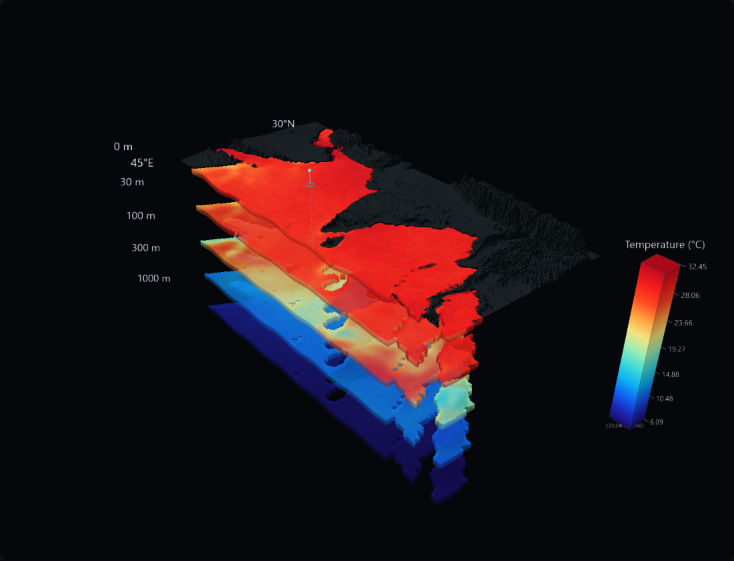
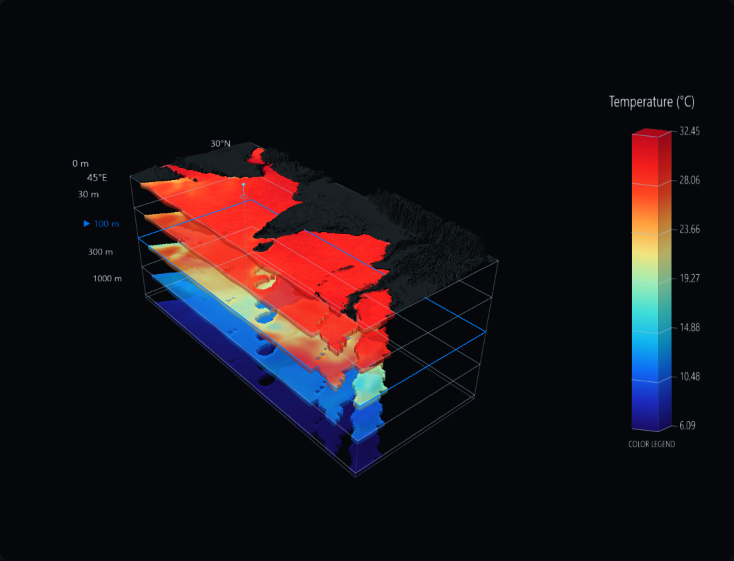
astra updates

diff --git a/web/src/components/DepthRenderer.tsx b/web/src/components/DepthRenderer.tsx
@@ -26,6 +26,8 @@ import { depthColor, depthGradient } from "../field/depthColors";
 import { waterShape } from "../field/waterShape";
 import { createTemperaturePrism } from "./TemperaturePrism";
 import { createLocationProbe } from "./LocationProbe";
+import { createStackFrame } from "./StackFrame";
+
 
 export interface DepthRendererProps {
   field: FieldView;
@@ -57,6 +59,8 @@ export default function DepthRenderer(props: DepthRendererProps) {
     camera: THREE.PerspectiveCamera;
     renderer: THREE.WebGLRenderer;
     scene: THREE.Scene;
+
+    legendGroup: THREE.Group;
   } | null>(null);
   const latest = useRef(props);
   latest.current = props;
@@ -95,7 +99,12 @@ export default function DepthRenderer(props: DepthRendererProps) {
     );
     renderer.domElement.dataset.testid = "depth-canvas";
     const scene = new THREE.Scene();
+
+    const legendGroup = new THREE.Group();
+    scene.add(legendGroup);
+
     scene.background = new THREE.Color().setRGB(5 / 255, 7 / 255, 11 / 255);
+    renderer.setClearColor(scene.background);
     // Soft key + fill so the land relief and slice stack read as solid surfaces
     // instead of flat colour. Lighting is presentation only: the ocean slices
     // stay MeshBasic so their colours remain the exact colormap values.
@@ -124,7 +133,7 @@ export default function DepthRenderer(props: DepthRendererProps) {
     controlRef.current = controls;
     const group = new THREE.Group();
     scene.add(group);
-    sceneData.current = { group, camera, renderer, scene };
+    sceneData.current = { group, camera, renderer, scene, legendGroup };
     const resize = new ResizeObserver(() => {
       const w = element.clientWidth,
         h = element.clientHeight;
@@ -169,10 +178,12 @@ export default function DepthRenderer(props: DepthRendererProps) {
       )
         return;
       const rect = renderer.domElement.getBoundingClientRect();
+      const mainWidth=rect.width;
+
       const ray = new THREE.Raycaster();
       ray.setFromCamera(
         new THREE.Vector2(
-          ((e.clientX - rect.left) / rect.width) * 2 - 1,
+          ((e.clientX - rect.left) / mainWidth) * 2 - 1,
           (-(e.clientY - rect.top) / rect.height) * 2 + 1,
         ),
         camera,
@@ -203,6 +214,7 @@ export default function DepthRenderer(props: DepthRendererProps) {
       controls.dispose();
       if (probeRef.current) { disposeGroup(probeRef.current); probeRef.current = null; }
       disposeGroup(group);
+      disposeGroup(legendGroup);
       renderer.dispose();
       renderer.domElement.removeEventListener("webglcontextlost", lost);
       renderer.domElement.removeEventListener("pointerdown", down);
@@ -329,19 +341,18 @@ export default function DepthRenderer(props: DepthRendererProps) {
       group.add(landMesh);
     }
 
-    group.add(createTemperaturePrism(range,layer,palette,ys[0],ys[ys.length-1]));
+    group.add(createStackFrame(levels,ys,depth,slab));
+    if(host.current) host.current.dataset.highlightedDepth=String(f.depths[depth]);
 
-    // NO container prism. An enclosing box around the whole stack was tried and
-    // removed: it reads as an aquarium, adds base volume the data does not
-    // have, and buries the vertical separation that is the whole point of the
-    // view. The water footprint itself defines each sheet.
+    // Edge-only scientific frame; gaps remain empty and no panels are added.
     //
     // Every sheet is labelled with its OWN true depth in metres. That matters
     // most when the stack is exploded, because a layer's height is then a
     // legibility device rather than a measurement — the label, not the
     // position, is what states the depth.
     levels.forEach((k, i) => {
-      const label = textSprite(`${f.depths[k]} m`);
+      const label = textSprite(`${k===depth ? "▶ " : ""}${f.depths[k]} m`);
+      if(k===depth) (label.material as THREE.SpriteMaterial).color.set(0x16bbff);
       label.position.set(-36, ys[i], 13);
       group.add(label);
     });
@@ -373,6 +384,16 @@ export default function DepthRenderer(props: DepthRendererProps) {
     terrainExaggeration,
     // Selection updates the separate lightweight probe below.
   ]);
+  // World-space model beside the stack: only the active scale can rebuild or
+  // recolor it. It shares the ocean camera for orbit, pan and zoom.
+  useEffect(() => {
+    if(!sceneData.current) return;
+    const {legendGroup}=sceneData.current;
+    disposeGroup(legendGroup);
+    const prism=createTemperaturePrism(range,layer,palette,0,-24);
+
+    legendGroup.add(prism);
+  },[ready,range.min,range.max,range.count,layer,palette]);
   useEffect(() => {
     if (!sceneData.current) return;
     const {scene,group}=sceneData.current;

diff --git a/web/src/components/StackFrame.ts b/web/src/components/StackFrame.ts
@@ -1,0 +1,40 @@
+import * as THREE from "three";
+import { DOMAIN, position } from "../field/geometry";
+import { OCEAN_VISUAL_CONFIG as V } from "../field/visualConfig";
+
+/** Edges only: no panels, field geometry, or picking targets. */
+export function createStackFrame(levels:number[], ys:number[], selected:number, thickness:number) {
+  const group=new THREE.Group(); group.name="stack-frame";
+  const [x0,,z0]=position(DOMAIN.west,DOMAIN.south,0,1);
+  const [x1,,z1]=position(DOMAIN.east,DOMAIN.north,0,1);
+  const corners=[[x0,z0],[x1,z0],[x1,z1],[x0,z1]];
+  const perimeter=(y:number)=>corners.map(([x,z])=>new THREE.Vector3(x,y,z));
+  levels.forEach((level,i)=>{
+    const active=level===selected;
+    const frame=new THREE.Group(); frame.userData={level,selected:active};
+    const points=perimeter(ys[i]); points.push(points[0].clone());
+    frame.add(new THREE.Line(new THREE.BufferGeometry().setFromPoints(points),
+      new THREE.LineBasicMaterial({color:active?V.selectedOutlineColor:V.normalOutlineColor,
+        transparent:true,opacity:active?V.selectedOutlineIntensity:V.outlineOpacity,depthWrite:false,toneMapped:false})));
+    if(active) {
+      const material=new THREE.MeshBasicMaterial({color:V.selectedOutlineColor,transparent:true,
+        opacity:V.selectedOutlineIntensity*.75,depthWrite:false,toneMapped:false});
+      for(let j=0;j<4;j++) {
+        const a=points[j],b=points[j+1],delta=b.clone().sub(a);
+        const edge=new THREE.Mesh(new THREE.CylinderGeometry(V.selectedOutlineRadius,V.selectedOutlineRadius,delta.length(),6),material);
+        edge.position.copy(a).add(b).multiplyScalar(.5);
+        edge.quaternion.setFromUnitVectors(new THREE.Vector3(0,1,0),delta.normalize()); frame.add(edge);
+      }
+    }
+    frame.renderOrder=90; frame.traverse(o=>o.renderOrder=90); group.add(frame);
+  });
+  if(ys.length) {
+    const bottom=ys[ys.length-1]-thickness;
+    const points=perimeter(bottom); points.push(points[0].clone());
+    const lines:THREE.Vector3[]=[];
+    for(let j=0;j<4;j++) lines.push(points[j],points[j+1],new THREE.Vector3(corners[j][0],ys[0],corners[j][1]),points[j]);
+    group.add(new THREE.LineSegments(new THREE.BufferGeometry().setFromPoints(lines),
+      new THREE.LineBasicMaterial({color:V.normalOutlineColor,transparent:true,opacity:V.cornerOpacity,depthWrite:false,toneMapped:false})));
+  }
+  return group;
+}

diff --git a/web/src/components/TemperaturePrism.tsx b/web/src/components/TemperaturePrism.tsx
@@ -2,6 +2,7 @@ import * as THREE from "three";
 import type { Layer, Palette } from "../field/contract";
 import type { Range } from "../field/colors";
 import { depthColor } from "../field/depthColors";
+import { OCEAN_VISUAL_CONFIG } from "../field/visualConfig";
 
 export function prismTicks(range: Range, layer: Layer) {
   if (!range.count || !Number.isFinite(range.min) || !Number.isFinite(range.max)) return [];
@@ -18,7 +19,7 @@ export function createTemperaturePrism(range: Range, layer: Layer, palette: Pale
   const ticks = prismTicks(range,layer);
   if (!ticks.length) return group;
   const height = Math.max(10, Math.abs(surfaceY-bottomY));
-  group.position.set(34, surfaceY-height/2, -17);
+  group.position.set(OCEAN_VISUAL_CONFIG.legendPosition[0], surfaceY-height/2, OCEAN_VISUAL_CONFIG.legendPosition[2]);
   group.userData = { legend:true, ticks, title:layer === "anomaly" ? "Temperature Anomaly (°C)" : "Temperature (°C)" };
   const pixels = new Uint8Array(1024*4);
   for (let i=0;i<1024;i++) pixels.set([
@@ -43,6 +44,12 @@ export function createTemperaturePrism(range: Range, layer: Layer, palette: Pale
   caption.position.set(0,-height/2-1.4,0); group.add(caption);
   for (const value of ticks) {
     const t = range.min===range.max ? .5 : (value-range.min)/(range.max-range.min);
+    const y=t*height-height/2;
+    const separator=new THREE.LineLoop(new THREE.BufferGeometry().setFromPoints([
+      new THREE.Vector3(-1.61,y,-1.61),new THREE.Vector3(1.61,y,-1.61),
+      new THREE.Vector3(1.61,y,1.61),new THREE.Vector3(-1.61,y,1.61)]),
+      new THREE.LineBasicMaterial({color:0xd5e6f2,transparent:true,opacity:OCEAN_VISUAL_CONFIG.legendSeparatorOpacity,toneMapped:false}));
+    separator.name="legend-separator"; separator.userData.value=value; group.add(separator);
     const text = label(value===0 ? "0" : value.toFixed(2),8);
     text.position.set(2.5,t*height-height/2,-1.6); group.add(text);
     const line = new THREE.BufferGeometry().setFromPoints([

diff --git a/web/src/field/surfaceMaterials.ts b/web/src/field/surfaceMaterials.ts
@@ -1,5 +1,6 @@
 /** Display-only surface finishes. No displacement, model values or masks. */
 import * as THREE from "three";
+import { OCEAN_VISUAL_CONFIG } from "./visualConfig";
 
 /** Interpolate display RGB only inside fully supported four-cell patches.
  * Geometry, cell ordering, masks and scientific scalar arrays remain intact.
@@ -38,11 +39,13 @@ export function oceanMaterial(opacity: number, surface: boolean, cells: number[]
   material.addEventListener("dispose", () => edgeMask.dispose());
   material.onBeforeCompile = shader => {
     shader.uniforms.waterSupport = { value: edgeMask };
+    shader.uniforms.oceanEmission = { value: OCEAN_VISUAL_CONFIG.emissiveIntensity };
     shader.vertexShader = "varying vec3 vSurfacePosition;\n" + shader.vertexShader;
     shader.vertexShader = shader.vertexShader.replace("#include <begin_vertex>",
       "#include <begin_vertex>\nvSurfacePosition = (modelMatrix * vec4(position, 1.0)).xyz;");
     shader.fragmentShader = `varying vec3 vSurfacePosition;
       uniform sampler2D waterSupport;
+      uniform float oceanEmission;
       float waterHash(vec2 p) { return fract(sin(dot(p, vec2(127.1,311.7))) * 43758.5453); }
       float waterNoise(vec2 p) {
         vec2 i = floor(p), f = fract(p); f = f*f*(3.0-2.0*f);
@@ -69,6 +72,7 @@ export function oceanMaterial(opacity: number, surface: boolean, cells: number[]
       diffuseColor.rgb *= 1.0 - strength * (0.09 - 0.12 * detail);
       float sheen = min(0.13, grazing * 0.08 + glint * 0.12) * strength;
       diffuseColor.rgb = mix(diffuseColor.rgb, vec3(0.85, 0.94, 1.0), sheen);
+      diffuseColor.rgb *= 1.0 + oceanEmission;
       // Feather only within existing triangles; never draw into masked cells.
       vec2 supportUV = vec2((p.x / 0.95371695075 + 30.125) / 60.25,
                             (12.625 - p.y) / 25.25);

diff --git a/web/e2e/volume.spec.ts b/web/e2e/volume.spec.ts
@@ -1,0 +1,25 @@
+import { test, expect } from "@playwright/test";
+import { oceanViewportWidth } from "../src/field/visualConfig";
+test("existing depth selection highlights the stack while foreground scale stays pixel-identical",async({page})=>{
+  let requests=0; page.on("request",r=>{if(r.url().includes("/api/replay/view"))requests++;});
+  await page.goto("/#depth");
+  await expect(page.getByTestId("terrain-context")).toBeVisible();
+  const view=page.getByTestId("depth-renderer"); await view.scrollIntoViewIfNeeded();
+  await expect(page.getByLabel("Depth",{exact:true})).toHaveCount(1);
+  const box=(await view.boundingBox())!, width=oceanViewportWidth(box.width);
+  const legend=()=>page.screenshot({clip:{x:box.x+width,y:box.y,width:box.width-width,height:box.height}});
+  await page.waitForTimeout(500); const before=await legend();
+  for(const [index,metres] of [[0,0],[4,30],[7,100],[11,300],[14,1000]]) {
+    await page.getByLabel("Depth",{exact:true}).selectOption(String(index));
+    await expect(view).toHaveAttribute("data-highlighted-depth",String(metres));
+    await page.waitForTimeout(200);
+    expect((await legend()).equals(before)).toBe(true);
+  }
+  await page.mouse.move(box.x+width*.45,box.y+box.height*.5);
+  await page.mouse.down(); await page.mouse.move(box.x+width*.53,box.y+box.height*.48,{steps:12}); await page.mouse.up();
+  await page.mouse.wheel(0,-80); await page.waitForTimeout(500);
+  expect((await legend()).equals(before)).toBe(true);
+  await page.getByLabel("Layer separation",{exact:true}).fill("0.7");
+  await page.waitForTimeout(300); expect((await legend()).equals(before)).toBe(true);
+  expect(requests).toBe(1);
+});

diff --git a/web/src/test/stackFrame.test.ts b/web/src/test/stackFrame.test.ts
@@ -1,0 +1,23 @@
+import { it, expect } from "vitest";
+import * as THREE from "three";
+import { createStackFrame } from "../components/StackFrame";
+import { visibleLevels, layerLayout, LAYER_GAP } from "../field/geometry";
+import { DEPTHS } from "../field/contract";
+import { OCEAN_VISUAL_CONFIG as V } from "../field/visualConfig";
+it("highlights only the exact selected depth across all 15 levels using edges only",()=>{
+  for(let selected=0;selected<DEPTHS.length;selected++) {
+    const levels=visibleLevels([0,14],5,selected);
+    const ys=layerLayout(DEPTHS,levels,700,1,LAYER_GAP);
+    const before=[...ys];
+    const frame=createStackFrame(levels,ys,selected,.8);
+    const active=frame.children.filter(o=>o.userData.selected);
+    expect(active).toHaveLength(1); expect(active[0].userData.level).toBe(selected);
+    for(const child of frame.children.filter(o=>o instanceof THREE.Group)) {
+      const line=child.children[0] as THREE.Line<THREE.BufferGeometry,THREE.LineBasicMaterial>;
+      expect(line.material.color.getHex()).toBe(child.userData.selected?V.selectedOutlineColor:V.normalOutlineColor);
+      expect(line.material.opacity).toBe(child.userData.selected?V.selectedOutlineIntensity:V.outlineOpacity);
+    }
+    expect(ys).toEqual(before);
+    expect(frame.children.at(-1)).toBeInstanceOf(THREE.LineSegments);
+  }
+});

diff --git a/web/e2e/historical.spec.ts b/web/e2e/historical.spec.ts
@@ -170,9 +170,11 @@ test("3D orbit pan zoom clipping depth selection and frame rate", async ({
   // are still exercised, below, after this measurement.
   //
   // Same constants the renderer uses — imported, never re-typed here.
+  const sceneWidth=b.width;
+  const aspect=sceneWidth/b.height;
   const camera = new PerspectiveCamera(
-    CAMERA.fov,
-    b.width / b.height,
+    2*Math.atan(Math.tan(CAMERA.fov*Math.PI/360)*Math.max(1,1.2/aspect))*180/Math.PI,
+    aspect,
     CAMERA.near,
     CAMERA.far,
   );
@@ -207,7 +209,7 @@ test("3D orbit pan zoom clipping depth selection and frame rate", async ({
   ).project(camera);
   await canvas.click({
     position: {
-      x: ((projected.x + 1) / 2) * b.width,
+      x: ((projected.x + 1) / 2) * sceneWidth,
       y: ((1 - projected.y) / 2) * b.height,
     },
   });

diff --git a/web/src/test/temperaturePrism.test.ts b/web/src/test/temperaturePrism.test.ts
@@ -17,6 +17,9 @@ it("creates a world-space prism outside the ocean with the active palette", () =
     expect(Array.from(data.slice(0,3))).toEqual(depthColor(-4,range,"anomaly","thermal"));
     expect(Array.from(data.slice(-4,-1))).toEqual(depthColor(4,range,"anomaly","thermal"));
     expect(model.userData.ticks[3]).toBe(0);
+    const separators=model.children.filter(o=>o.name==="legend-separator");
+    expect(separators.map(o=>o.userData.value)).toEqual(model.userData.ticks);
+    expect(separators).toHaveLength(7);
     const camera=new THREE.PerspectiveCamera(38,1,0.1,500);
     camera.position.set(76,49,62); camera.lookAt(0,-12,0); camera.updateMatrixWorld();
     const before=model.position.clone().project(camera);

diff --git a/web/src/field/visualConfig.ts b/web/src/field/visualConfig.ts
@@ -1,0 +1,13 @@
+/** Presentation only; never changes field values, masks, or scale normalization. */
+export const OCEAN_VISUAL_CONFIG = {
+  emissiveIntensity: 0.15,
+  outlineOpacity: 0.38,
+  normalOutlineColor: 0xd5e6f2,
+  selectedOutlineColor: 0x16bbff,
+  selectedOutlineIntensity: 1,
+  selectedOutlineRadius: 0.035,
+  cornerOpacity: 0.25,
+  legendSeparatorOpacity: 0.45,
+  legendPosition: [34, -12, 11] as const,
+} as const;
+

diff --git a/docs/PHASE7B_VISUAL_TUNING.md b/docs/PHASE7B_VISUAL_TUNING.md
@@ -1,0 +1,23 @@
+# Phase 7B 3D visual tuning
+
+Edit `web/src/field/visualConfig.ts`, object `OCEAN_VISUAL_CONFIG`, then run `npm run build` from `web` and refresh the application.
+
+| Setting | Current | Suggested range | Effect |
+| --- | --- | --- | --- |
+| emissiveIntensity | 0.08 | 0–0.15 | Higher lifts ocean RGB brightness after the existing surface finish; lower looks more matte. Values, palette and normalization are unchanged. Stronger settings can saturate bright reds. |
+| outlineOpacity | 0.38 | 0.15–0.6 | Visibility of non-selected white layer perimeters. |
+| selectedOutlineIntensity | 1 | 0.55–1 | Cyan selected frame emphasis (opacity); 1 is maximum. |
+| selectedOutlineRadius | 0.035 | 0.015–0.06 | Thin selected edge radius in scene units; independent of scientific geometry. |
+| cornerOpacity | 0.25 | 0.1–0.45 | Visibility of four vertical corners and lower closing perimeter. |
+| legendSeparatorOpacity | 0.45 | 0.15–0.65 | Tick-aligned separator visibility on all prism faces. |
+| normalOutlineColor | 0xd5e6f2 | CSS-style hex RGB | Neutral cool-white frame color. |
+| selectedOutlineColor | 0x16bbff | CSS-style hex RGB | Selected cyan frame color. |
+| legendViewportFraction | 0.20 | 0.18–0.24 | Right foreground space reserved for the 3D legend; picking and camera sizing use the same helper. |
+
+There is no bloom postprocessing pass. `bloomStrength`, `bloomRadius`, and `bloomThreshold` are deliberately not inactive knobs: they are not implemented. In a future bloom implementation, strength controls spread intensity, radius controls width/softness, and a lower threshold admits more scene brightness. This refinement uses the existing self-lit ocean shader and small edge geometry to avoid a new render-target/postprocessing cost.
+
+The ocean uses MeshBasicMaterial already, so emissiveIntensity is an explicit shader brightness multiplier, not an ineffective MeshStandardMaterial emissive property. No new colormap is generated. No field values are read or mutated by frame creation.
+
+The foreground prism is real box geometry rendered in a dedicated scene using the same WebGL renderer/canvas. It has a fixed camera and fixed dimensions; it is not anchored to a geographic coordinate. Its ticks, gradient and separators derive from the active temperature/anomaly range. Depth selection, orbit and separation do not reposition or highlight it. The scientific camera and raycast use the ocean viewport width consistently. The geographic probe stays in the ocean scene.
+
+Frames reuse the existing selected depth index and visibleLevels()/layerLayout() output. The matching layer alone is cyan, including intermediate required depths. No new controls, scientific inference, terrain or export changes are introduced.
